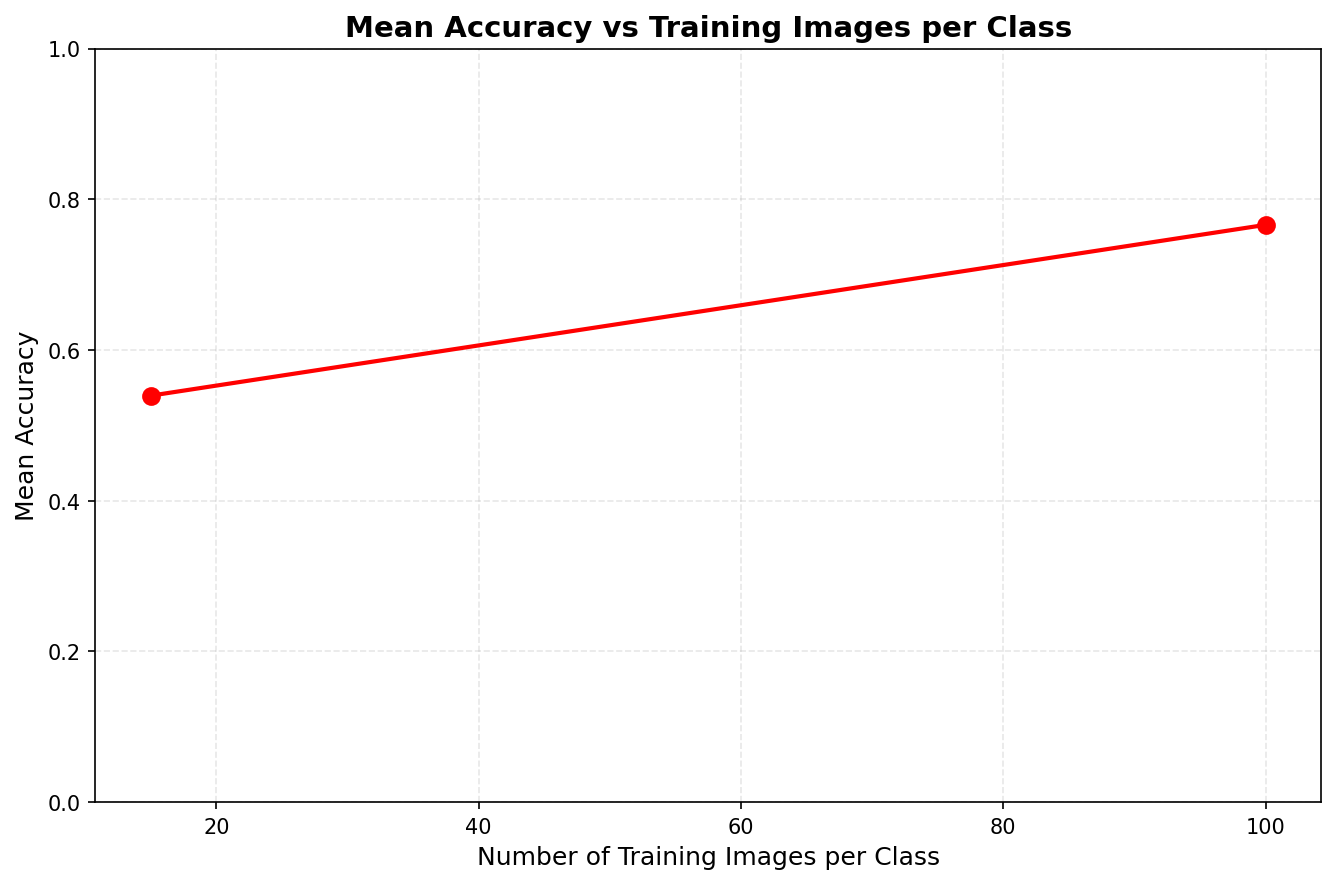
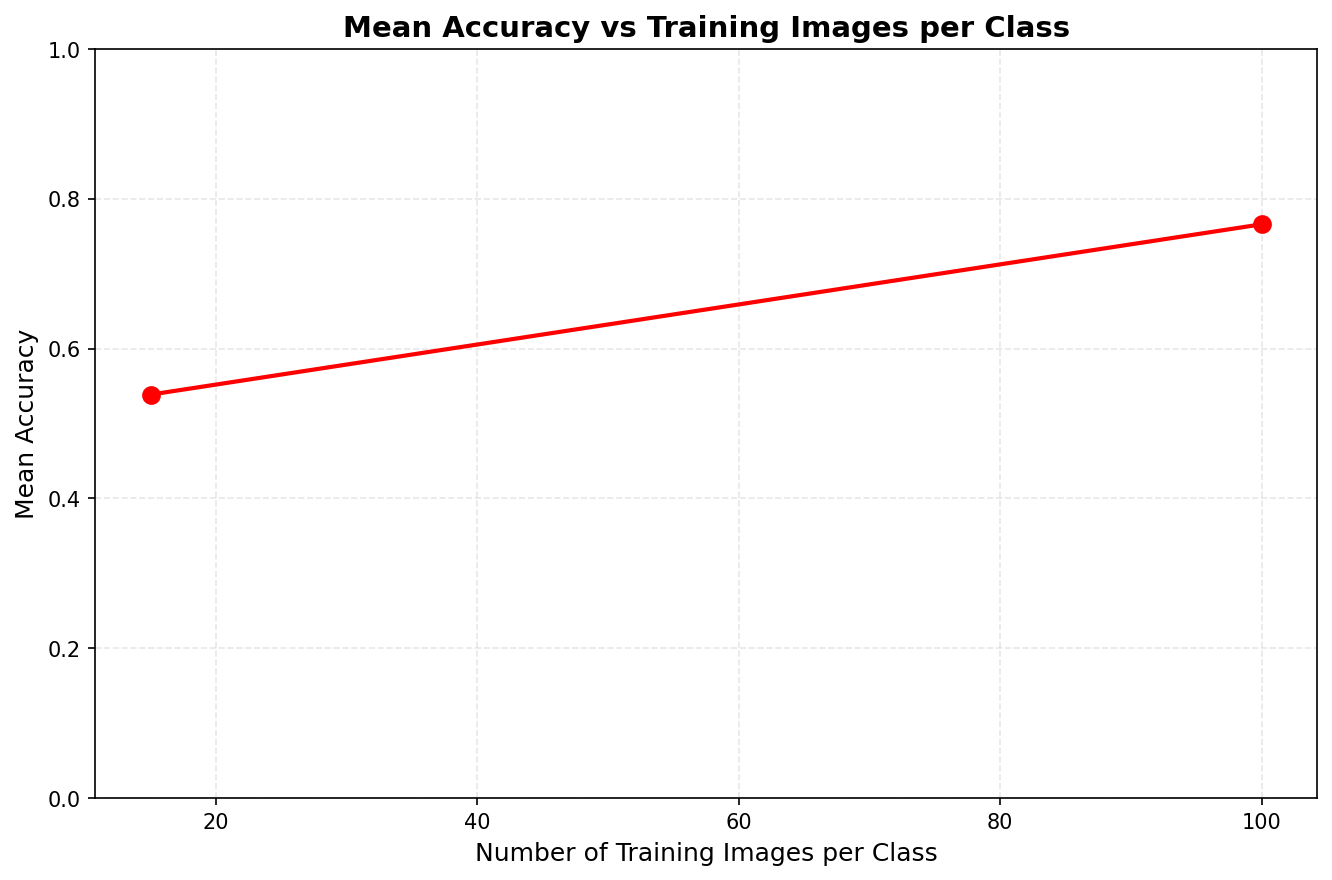
cleaned up comments and repo structure

diff --git a/CNN_Implementation/predict_and_plot.py b/CNN_Implementation/predict_and_plot.py
@@ -23,7 +23,7 @@ def set_seed(seed: int = 42):
 
 
 def make_balanced_indices(base_dataset, train_per_class: int, test_per_class: int, seed: int):
-    """Separa índices balanceados por clase para train y test."""
+    """Separate indices for training and testing."""
     class_to_indices = defaultdict(list)
     for idx, (_, y) in enumerate(base_dataset.samples):
         class_to_indices[y].append(idx)
@@ -45,7 +45,7 @@ def make_balanced_indices(base_dataset, train_per_class: int, test_per_class: in
 
 
 def train_one_epoch(model, loader, criterion, optimizer, device):
-    """Entrena una época."""
+    """Train for one epoch."""
     model.train()
     total_loss, correct, total = 0.0, 0, 0
 
@@ -67,7 +67,7 @@ def train_one_epoch(model, loader, criterion, optimizer, device):
 
 @torch.no_grad()
 def evaluate_per_class(model, loader, num_classes, device):
-    """Evalúa accuracy por clase."""
+    """Evaluate accuracy per class."""
     model.eval()
     correct = np.zeros(num_classes, dtype=np.int64)
     total = np.zeros(num_classes, dtype=np.int64)
@@ -89,15 +89,15 @@ def evaluate_per_class(model, loader, num_classes, device):
 
 def run_experiment(breeds_dir: str, small_n: int, large_n: int, test_per_class: int, epochs: int, out_dir: str):
     """
-    Ejecuta experimento con dos tamaños de training.
-    
+    Run experiment with two training sizes.
+
     Args:
-        breeds_dir: Ruta a selected_breeds
-        small_n: Imágenes por clase para entrenar modelo pequeño
-        large_n: Imágenes por clase para entrenar modelo grande
-        test_per_class: Imágenes por clase para test
-        epochs: Épocas de entrenamiento
-        out_dir: Carpeta de salida
+        breeds_dir: Path to selected_breeds
+        small_n: Images per class for training small model
+        large_n: Images per class for training large model
+        test_per_class: Images per class for testing
+        epochs: Training epochs
+        out_dir: Output folder
     """
     os.makedirs(out_dir, exist_ok=True)
     set_seed(42)
@@ -114,14 +114,13 @@ def run_experiment(breeds_dir: str, small_n: int, large_n: int, test_per_class: 
     train_ds_full = datasets.ImageFolder(root=breeds_dir, transform=train_transforms)
     test_ds_full = datasets.ImageFolder(root=breeds_dir, transform=test_transforms)
 
-    # Experimento: entrenar con small_n y large_n imágenes por clase
     sizes = [small_n, large_n]
     per_class_results = {}
     mean_results = []
 
     for n in sizes:
         print(f"\n{'─'*60}")
-        print(f"ENTRENANDO CON {n} IMÁGENES POR CLASE")
+        print(f"Training with {n} images per class")
         print(f"{'─'*60}")
         
         train_idx, test_idx = make_balanced_indices(base, n, test_per_class, seed=42 + n)
@@ -132,8 +131,8 @@ def run_experiment(breeds_dir: str, small_n: int, large_n: int, test_per_class: 
         train_loader = DataLoader(train_ds, batch_size=32, shuffle=True, num_workers=2)
         test_loader = DataLoader(test_ds, batch_size=32, shuffle=False, num_workers=2)
 
-        print(f"  Train set: {len(train_ds)} imágenes ({n} por clase)")
-        print(f"  Test set:  {len(test_ds)} imágenes ({test_per_class} por clase)\n")
+        print(f"  Train set: {len(train_ds)} images ({n} per class)")
+        print(f"  Test set:  {len(test_ds)} images ({test_per_class} per class)\n")
 
         model, criterion, optimizer = build_model(num_classes=num_classes, learning_rate=0.001, device=device)
         scheduler = torch.optim.lr_scheduler.StepLR(optimizer, step_size=max(1, epochs // 2), gamma=0.1)
@@ -156,7 +155,7 @@ def run_experiment(breeds_dir: str, small_n: int, large_n: int, test_per_class: 
         w.writerow(["breed", f"{small_n}_images", f"{large_n}_images"])
         for i, name in enumerate(class_names):
             w.writerow([name, per_class_results[small_n][i], per_class_results[large_n][i]])
-    print(f"✓ Guardado: {per_class_csv}")
+    print(f"<Saved:> {per_class_csv}")
 
     # Guardar CSV de media
     mean_csv = os.path.join(out_dir, "mean_accuracy.csv")
@@ -165,14 +164,14 @@ def run_experiment(breeds_dir: str, small_n: int, large_n: int, test_per_class: 
         w.writerow(["train_images_per_class", "mean_accuracy"])
         for n, m in mean_results:
             w.writerow([n, m])
-    print(f"✓ Guardado: {mean_csv}")
+    print(f"<Saved:> {mean_csv}")
 
     return class_names, per_class_results, mean_results, small_n, large_n
 
 
 def plot_per_class_comparison(class_names, per_class_results, small_n, large_n, out_path):
     """
-    Gráfica comparativa por clase: barras horizontales ordenadas.
+    Generate a horizontal bar chart comparing per-class accuracy for two training sizes.
     """
     small_acc = per_class_results[small_n]
     large_acc = per_class_results[large_n]
@@ -203,12 +202,12 @@ def plot_per_class_comparison(class_names, per_class_results, small_n, large_n, 
     plt.tight_layout()
     plt.savefig(out_path, dpi=150, bbox_inches="tight")
     plt.close()
-    print(f"✓ Guardado: {out_path}")
+    print(f"<Saved:> {out_path}")
 
 
 def plot_mean_accuracy_curve(mean_results, out_path):
     """
-    Gráfica de accuracy media vs imágenes por clase.
+    Mean accuracy vs images per class.
     """
     xs = np.array([x for x, _ in mean_results], dtype=float)
     ys = np.array([y for _, y in mean_results], dtype=float)
@@ -225,35 +224,35 @@ def plot_mean_accuracy_curve(mean_results, out_path):
     plt.tight_layout()
     plt.savefig(out_path, dpi=150, bbox_inches="tight")
     plt.close()
-    print(f"✓ Guardado: {out_path}")
+    print(f"✓ Saved: {out_path}")
 
 
 def main():
     parser = argparse.ArgumentParser(
-        description="Experimento simple: compara dos tamaños de training."
+        description="Simple experiment: compares two training sizes."
     )
     parser.add_argument(
         "--epochs",
         type=int,
         default=5,
-        help="Épocas de entrenamiento (default: 5)"
+        help="Training epochs (default: 5)"
     )
     parser.add_argument(
         "--small",
         type=int,
         default=15,
-        help="Imágenes por clase para modelo pequeño (default: 15)"
+        help="Images per class for small model (default: 15)"
     )
     parser.add_argument(
         "--large",
         type=int,
         default=100,
-        help="Imágenes por clase para modelo grande (default: 100)"
+        help="Images per class for large model (default: 100)"
     )
     parser.add_argument(
         "--out-dir",
         default="plots_scale",
-        help="Carpeta de salida (default: plots_scale)"
+        help="Output folder (default: plots_scale)"
     )
     args = parser.parse_args()
 
@@ -268,7 +267,7 @@ def main():
 
     # Generar gráficas
     print(f"\n{'='*60}")
-    print("GENERANDO GRÁFICAS")
+    print("Generating plots...")
     print(f"{'='*60}\n")
     
     plot_per_class_comparison(
@@ -285,7 +284,7 @@ def main():
     )
 
     print(f"\n{'='*60}")
-    print("✓ EXPERIMENTO COMPLETADO")
+    print("Experiment completed")
     print(f"{'='*60}\n")
 
 

diff --git a/Milestone1/src/imageClassification/dataset/image_loader.py b/Milestone1/src/imageClassification/dataset/image_loader.py
@@ -1,11 +1,7 @@
 import os
 import cv2
 import numpy as np
-<<<<<<< HEAD
-from imageClassification.preprocessing.image_transform import normalize
-=======
 
->>>>>>> fd3b08a1b4069d22bcab92803d5c65dd6c5aac03
 def load_dataset(data_dir, imsize=(64, 64), to_gray=True, breeds=None):
     """
     Loads images from breed folders, resizes them, and flattens them into vectors.
@@ -33,14 +29,8 @@ def load_dataset(data_dir, imsize=(64, 64), to_gray=True, breeds=None):
                     img = cv2.cvtColor(img, cv2.COLOR_BGR2GRAY)
                 
                 img_resized = cv2.resize(img, imsize)
-<<<<<<< HEAD
-                normalized_img = normalize(img_resized)
-                # Flattening 64x64 into 4096 features
-                X.append(normalized_img.flatten())
-=======
                 # Flattening 64x64 into 4096 features
                 X.append(img_resized.flatten())
->>>>>>> fd3b08a1b4069d22bcab92803d5c65dd6c5aac03
                 y.append(idx)
                 count += 1
             except Exception: